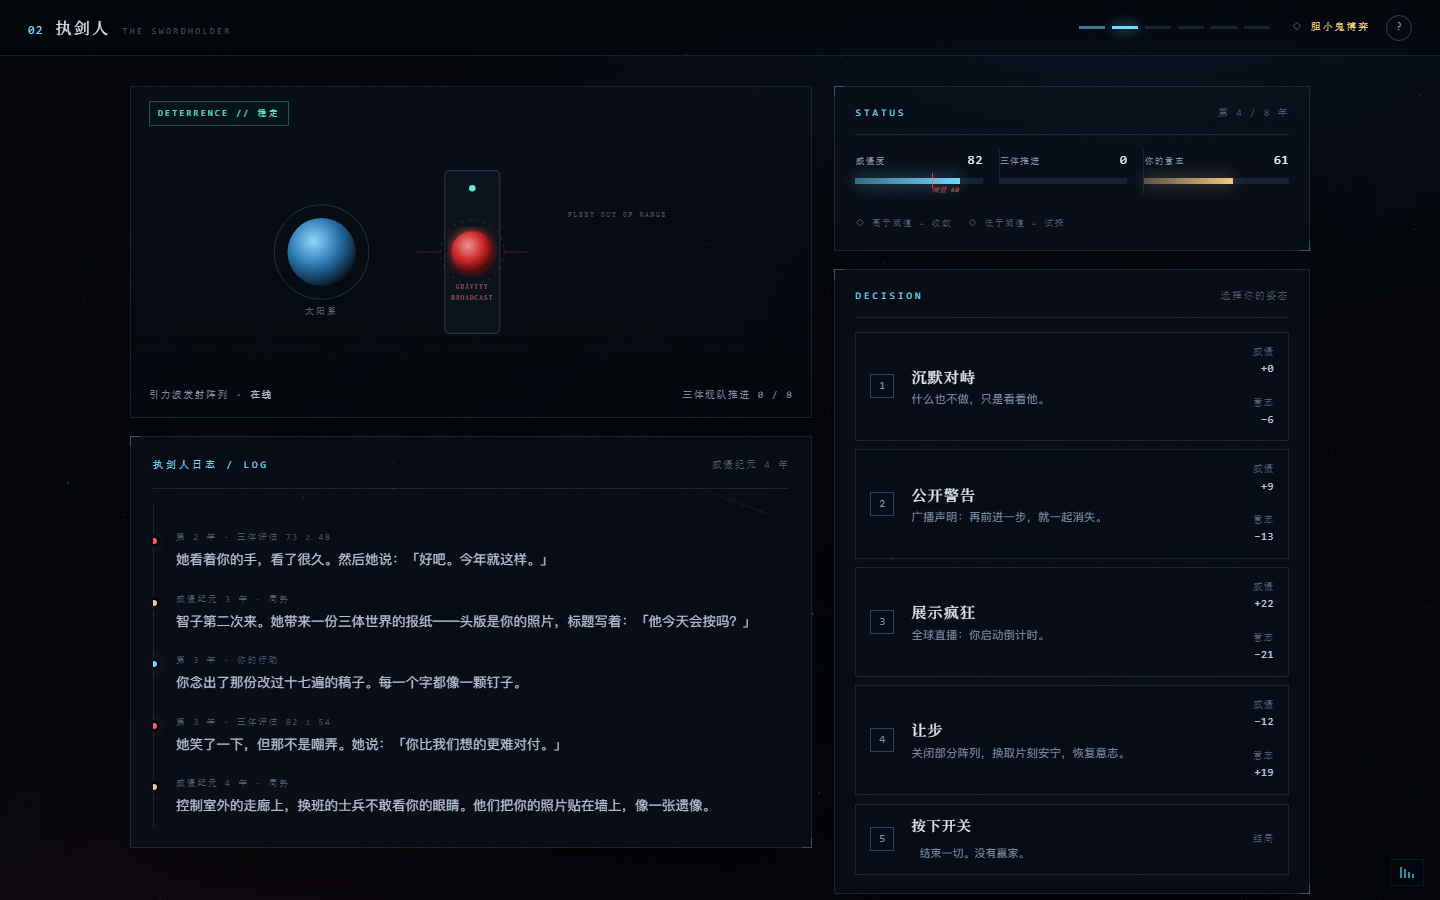
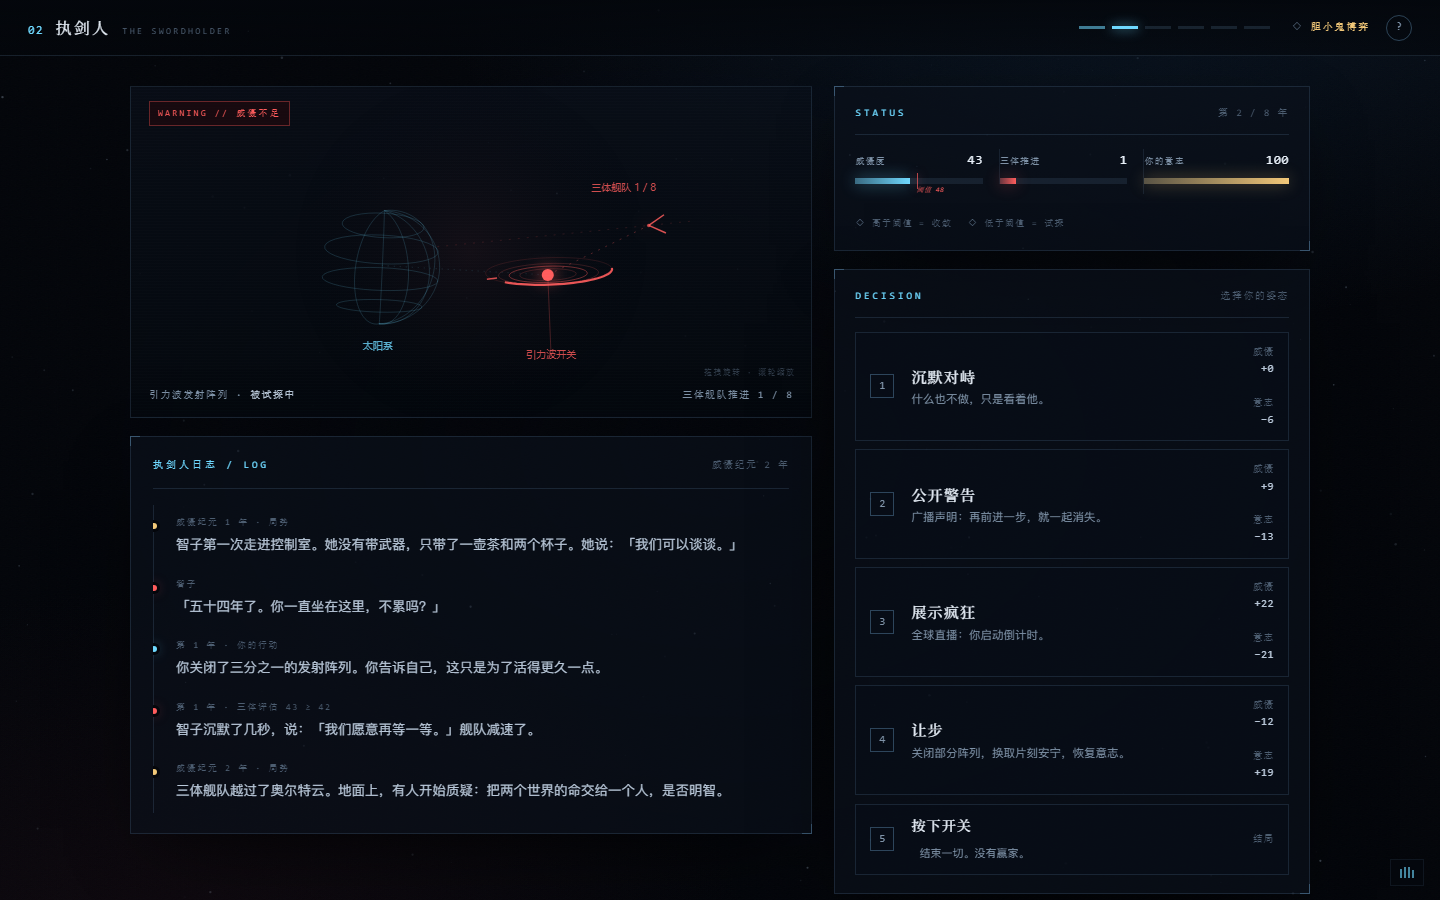
feat: 为第二章、第三章加入 3D 威慑台与信号球

diff --git a/dark-forest/js/hologram.js b/dark-forest/js/hologram.js
@@ -19,7 +19,9 @@ const Hologram = (() => {
   const defaultCam = {
     battle: { yaw: -0.55, pitch: 0.28, dist: 4.3 },
     plans: { yaw: 0.55, pitch: 0.34, dist: 4.1 },
-    mass: { yaw: 0.35, pitch: 0.40, dist: 4.7 }
+    mass: { yaw: 0.35, pitch: 0.40, dist: 4.7 },
+    deterrence: { yaw: -0.55, pitch: 0.26, dist: 4.4 },
+    signal: { yaw: -0.4, pitch: 0.30, dist: 4.2 }
   };
 
   function project(p, cam, W, H) {
@@ -84,6 +86,17 @@ const Hologram = (() => {
       ctx.restore();
     }
     return q;
+  }
+
+  function text3(ctx, p, cam, W, H, text, color, font, align) {
+    const q = project(p, cam, W, H);
+    if (!q) return;
+    ctx.save();
+    ctx.font = font || "10px 'Microsoft YaHei', sans-serif";
+    ctx.fillStyle = `rgba(${color},.8)`;
+    ctx.textAlign = align || "left";
+    ctx.fillText(text, q.x, q.y);
+    ctx.restore();
   }
 
   function bezier(a, b, bulge, steps) {
@@ -323,10 +336,192 @@ const Hologram = (() => {
     }
   }
 
+  /* ---------------- chapter 2: deterrence console ---------------- */
+  function deterrence(ctx, st, cam, W, H, t) {
+    const threshold = st.threshold || 42;
+    const stable = st.D >= threshold;
+    const tint = stable ? C.cyan : C.red;
+    const glow = ctx.createRadialGradient(W / 2, H / 2, 0, W / 2, H / 2, Math.min(W, H) * 0.55);
+    glow.addColorStop(0, `rgba(${tint},.055)`);
+    glow.addColorStop(1, "rgba(0,0,0,0)");
+    ctx.fillStyle = glow;
+    ctx.fillRect(0, 0, W, H);
+
+    const earth = [-0.9, -0.05, 0], er = 0.55;
+    const rings = [];
+    for (let lat = -45; lat <= 45; lat += 30) {
+      const la = (lat * Math.PI) / 180, pts = [];
+      for (let i = 0; i <= 36; i++) {
+        const lo = (i / 36) * TAU;
+        pts.push([earth[0] + Math.cos(la) * Math.cos(lo) * er, earth[1] + Math.sin(la) * er, earth[2] + Math.cos(la) * Math.sin(lo) * er]);
+      }
+      rings.push(pts);
+    }
+    for (let lon = 0; lon < 180; lon += 30) {
+      const lo = (lon * Math.PI) / 180, pts = [];
+      for (let i = 0; i <= 36; i++) {
+        const la = -Math.PI / 2 + (i / 36) * Math.PI;
+        pts.push([earth[0] + Math.cos(la) * Math.cos(lo) * er, earth[1] + Math.sin(la) * er, earth[2] + Math.cos(la) * Math.sin(lo) * er]);
+      }
+      rings.push(pts);
+    }
+    strokeRings(ctx, rings, cam, W, H, C.cyan, 0.16, 1);
+    text3(ctx, [earth[0], earth[1] - 0.78, earth[2]], cam, W, H, "太阳系", C.cyan, "10px 'Microsoft YaHei', sans-serif", "center");
+
+    const T = st.T || 0;
+    const fy = 0.08, startX = 1.5, step = 0.16;
+    ctx.setLineDash([2, 7]);
+    line(ctx, [1.8, fy, 0], [-0.35, fy, 0], cam, W, H, C.red, 0.14, 1);
+    ctx.setLineDash([]);
+    const ghost = T ? 0 : 3;
+    for (let i = 0; i < T + ghost; i++) {
+      const on = i < T;
+      const x = startX - i * step;
+      const a = [x, fy, 0], b = [x + 0.12, fy + 0.075, 0], c = [x + 0.12, fy - 0.075, 0];
+      line(ctx, a, b, cam, W, H, C.red, on ? 0.85 : 0.18, 1.5);
+      line(ctx, a, c, cam, W, H, C.red, on ? 0.85 : 0.18, 1.5);
+      node(ctx, a, cam, W, H, C.red, on ? 1.4 : 1, on ? 0.7 : 0.15);
+    }
+    if (!T) {
+      text3(ctx, [1.22, fy + 0.3, 0], cam, W, H, "FLEET OUT OF RANGE", C.red, "8px Consolas, monospace", "center");
+    } else {
+      const lead = startX - (T - 1) * step;
+      text3(ctx, [lead + 0.08, fy + 0.28, 0], cam, W, H, "三体舰队 " + T + " / 8", C.red, "10px 'Microsoft YaHei', sans-serif", "right");
+    }
+
+    const sw = [0.58, -0.15, 0.5];
+    line(ctx, [sw[0], -0.88, sw[2]], sw, cam, W, H, C.red, 0.25, 1);
+    ctx.setLineDash([1, 5]);
+    line(ctx, earth, sw, cam, W, H, C.cyan, 0.16, 1);
+    ctx.setLineDash([]);
+    for (const r of [0.26, 0.36, 0.46]) {
+      const pts = [];
+      for (let i = 0; i <= 40; i++) {
+        const a = (i / 40) * TAU;
+        pts.push([sw[0] + Math.cos(a) * r, sw[1], sw[2] + Math.sin(a) * r]);
+      }
+      strokeRings(ctx, [pts], cam, W, H, tint, r === 0.36 ? 0.4 : 0.18, 1);
+    }
+
+    const full = [], arc = [];
+    for (let i = 0; i <= 72; i++) {
+      const a = (i / 72) * TAU;
+      const p = [sw[0] + Math.cos(a) * 0.58, sw[1] + 0.02, sw[2] + Math.sin(a) * 0.58];
+      full.push(p);
+      if (i / 72 <= st.D / 100) arc.push(p);
+    }
+    strokeRings(ctx, [full], cam, W, H, tint, 0.12, 1);
+    if (arc.length > 1) strokeRings(ctx, [arc], cam, W, H, tint, 0.9, 2.2);
+    const ta = (threshold / 100) * TAU;
+    line(ctx, [sw[0] + Math.cos(ta) * 0.52, sw[1] + 0.02, sw[2] + Math.sin(ta) * 0.52],
+              [sw[0] + Math.cos(ta) * 0.63, sw[1] + 0.02, sw[2] + Math.sin(ta) * 0.63], cam, W, H, tint, 0.8, 1.5);
+
+    if (T) {
+      ctx.setLineDash([2, 6]);
+      line(ctx, sw, [startX - (T - 1) * step, fy, 0], cam, W, H, tint, 0.3, 1);
+      ctx.setLineDash([]);
+    }
+
+    if (st.phase === "confirm") {
+      const pulse = 0.55 + Math.sin(t * 5) * 0.2;
+      const pts = [];
+      for (let i = 0; i <= 48; i++) {
+        const a = (i / 48) * TAU;
+        pts.push([sw[0] + Math.cos(a) * 0.68, sw[1], sw[2] + Math.sin(a) * 0.68]);
+      }
+      strokeRings(ctx, [pts], cam, W, H, C.white, pulse, 2);
+    }
+
+    node(ctx, sw, cam, W, H, C.red, 7, 1);
+    text3(ctx, [sw[0], sw[1] - 0.76, sw[2]], cam, W, H, "引力波开关", C.red, "10px 'Microsoft YaHei', sans-serif", "center");
+  }
+
+  /* ---------------- chapter 3: signal sphere ---------------- */
+  function signalScene(ctx, st, cam, W, H, t) {
+    const post = st.post == null ? 0.5 : st.post;
+    const tint = post >= 0.5 ? C.cyan : C.red;
+    const glow = ctx.createRadialGradient(W / 2, H / 2, 0, W / 2, H / 2, Math.min(W, H) * 0.52);
+    glow.addColorStop(0, `rgba(${tint},.05)`);
+    glow.addColorStop(1, "rgba(0,0,0,0)");
+    ctx.fillStyle = glow;
+    ctx.fillRect(0, 0, W, H);
+
+    const rings = [];
+    for (let lat = -60; lat <= 60; lat += 30) {
+      const la = (lat * Math.PI) / 180, pts = [];
+      for (let i = 0; i <= 48; i++) {
+        const lo = (i / 48) * TAU;
+        pts.push([Math.cos(la) * Math.cos(lo), Math.sin(la), Math.cos(la) * Math.sin(lo)]);
+      }
+      rings.push(pts);
+    }
+    for (let lon = 0; lon < 180; lon += 30) {
+      const lo = (lon * Math.PI) / 180, pts = [];
+      for (let i = 0; i <= 48; i++) {
+        const la = -Math.PI / 2 + (i / 48) * Math.PI;
+        pts.push([Math.cos(la) * Math.cos(lo), Math.sin(la), Math.cos(la) * Math.sin(lo)]);
+      }
+      rings.push(pts);
+    }
+    strokeRings(ctx, rings, cam, W, H, C.cyan, 0.09, 1);
+
+    const scan = [];
+    for (let i = 0; i <= 72; i++) {
+      const a = (i / 72) * TAU + t * 0.35;
+      scan.push([Math.cos(a) * 1.12, Math.sin(a * 2 + t * 0.2) * 0.08, Math.sin(a) * 1.12]);
+    }
+    strokeRings(ctx, [scan], cam, W, H, C.cyan, 0.22, 1);
+
+    const srcPos = j => {
+      const az = -0.9 + j * 1.15;
+      const el = 0.42 - (j % 2) * 0.55;
+      return [Math.cos(el) * Math.cos(az) * 1.1, Math.sin(el) * 1.1, Math.cos(el) * Math.sin(az) * 1.1];
+    };
+    for (let j = 0; j < st.idx; j++) node(ctx, srcPos(j), cam, W, H, C.cyan, 1.6, 0.22);
+
+    const src = srcPos(st.idx);
+    const station = [0, -0.12, 0];
+    const beamColor = st.last ? (st.last.good ? C.cyan : C.red) : C.gold;
+    const { pts, mid } = bezier(src, station, 0.4, 28);
+    strokeRings(ctx, [pts], cam, W, H, beamColor, 0.55, 1.4);
+    const u = (t * 0.65) % 1;
+    node(ctx, pointOn(src, station, mid, u), cam, W, H, beamColor, 2, 0.9);
+    node(ctx, src, cam, W, H, beamColor, 4, 0.95, st.source || "信号源", beamColor);
+
+    node(ctx, station, cam, W, H, C.white, 3.2, 0.85, "监听站", C.white);
+
+    const R = 0.38, full = [], arc = [];
+    for (let i = 0; i <= 72; i++) {
+      const a = (i / 72) * TAU;
+      const p = [station[0] + Math.cos(a) * R, station[1] + 0.02, station[2] + Math.sin(a) * R];
+      full.push(p);
+      if (i / 72 <= post) arc.push(p);
+    }
+    strokeRings(ctx, [full], cam, W, H, C.white, 0.1, 1);
+    if (arc.length > 1) strokeRings(ctx, [arc], cam, W, H, tint, 0.9, 2.2);
+    line(ctx, [station[0] + Math.cos(Math.PI) * 0.34, station[1] + 0.02, station[2] + Math.sin(Math.PI) * 0.34],
+              [station[0] + Math.cos(Math.PI) * 0.42, station[1] + 0.02, station[2] + Math.sin(Math.PI) * 0.42],
+              cam, W, H, C.white, 0.45, 1);
+
+    text3(ctx, [station[0] + 0.62, station[1] - 0.5, station[2]], cam, W, H,
+      "P(善意) " + Math.round(post * 100) + "%", tint, "9px Consolas, monospace", "center");
+
+    if (st.title) {
+      ctx.save();
+      ctx.font = "600 18px 'Noto Serif SC', 'Songti SC', serif";
+      ctx.fillStyle = `rgba(${C.white},.85)`;
+      ctx.textAlign = "center";
+      ctx.fillText(st.title, W / 2, 42);
+      ctx.restore();
+    }
+  }
+
   function draw(kind, st, ctx, W, H, cam, t) {
     if (kind === "battle") battle(ctx, st, cam, W, H, t);
     else if (kind === "plans") plans(ctx, st, cam, W, H, t);
     else if (kind === "mass") mass(ctx, st, cam, W, H, t);
+    else if (kind === "deterrence") deterrence(ctx, st, cam, W, H, t);
+    else if (kind === "signal") signalScene(ctx, st, cam, W, H, t);
   }
 
   function mount(canvas) {

diff --git a/dark-forest/js/chapters.js b/dark-forest/js/chapters.js
@@ -470,7 +470,15 @@ const C2 = {
 
   threshold() { return 42 + (this.st.turn - 1) * 6; },
 
-  draw() { App.set(this.html()); },
+  draw() {
+    if (typeof Hologram !== "undefined") {
+      Hologram.setState("deterrence", {
+        turn: this.st.turn, T: this.st.T, D: this.st.D, S: this.st.S,
+        threshold: this.threshold(), last: this.st.last, phase: this.st.phase
+      });
+    }
+    App.set(this.html());
+  },
 
   html() {
     if (this.phase === "brief") {
@@ -541,48 +549,11 @@ const C2 = {
 
   scene(th) {
     const st = this.st;
-    const fleet = Array.from({ length: 8 }, (_, i) => {
-      if (i >= st.T) return "";
-      const x = 372 - i * 14;
-      return `<g>
-        <path d="M${x} 118 l-9 16 l18 0 z" fill="#ff5d5d"/>
-        <path d="M${x} 118 l-9 16 l18 0 z" fill="none" stroke="rgba(255,93,93,.6)" stroke-width="3"/>
-      </g>`;
-    }).join("");
-
     return `
-    <div class="scene">
+    <div class="scene scene--3d">
       <span class="scene-tag ${st.D >= th ? "is-calm" : ""}">${st.D >= th ? "DETERRENCE // 稳定" : "WARNING // 威慑不足"}</span>
-      <svg viewBox="0 0 400 300" role="img" aria-label="威慑控制室">
-        <defs>
-          <radialGradient id="earth2" cx="38%" cy="34%" r="70%">
-            <stop offset="0%" stop-color="#8fd6ff"/><stop offset="55%" stop-color="#2570a8"/><stop offset="100%" stop-color="#07131f"/>
-          </radialGradient>
-          <radialGradient id="btn2" cx="40%" cy="35%" r="65%">
-            <stop offset="0%" stop-color="#ff9b9b"/><stop offset="55%" stop-color="#d92b2b"/><stop offset="100%" stop-color="#4a0808"/>
-          </radialGradient>
-          <filter id="glow2"><feGaussianBlur stdDeviation="6" result="b"/><feMerge><feMergeNode in="b"/><feMergeNode in="SourceGraphic"/></feMerge></filter>
-        </defs>
-
-        <circle cx="64" cy="150" r="31" fill="url(#earth2)"/>
-        <circle cx="64" cy="150" r="43" fill="none" stroke="rgba(111,217,255,.22)" stroke-width=".8"/>
-        <text x="64" y="206" text-anchor="middle" font-family="monospace" font-size="8" letter-spacing="2" fill="rgba(125,145,165,.7)">太阳系</text>
-
-        <g opacity=".9">${fleet}</g>
-        <line x1="378" y1="126" x2="244" y2="126" stroke="rgba(255,93,93,.18)" stroke-width=".7" stroke-dasharray="1 6"/>
-        ${st.T === 0 ? `<text x="378" y="118" text-anchor="end" font-family="monospace" font-size="7" letter-spacing="1.5" fill="rgba(125,145,165,.5)">FLEET OUT OF RANGE</text>` : ""}
-
-        <g>
-          <rect x="176" y="76" width="50" height="148" rx="4" fill="rgba(12,20,30,.85)" stroke="rgba(126,170,210,.25)"/>
-          <circle cx="201" cy="92" r="3" fill="${st.D >= th ? "#5eead4" : "#ff5d5d"}"/>
-          <circle cx="201" cy="150" r="19" fill="url(#btn2)" filter="url(#glow2)" class="bigbtn"/>
-          <circle cx="201" cy="150" r="29" fill="none" stroke="rgba(255,93,93,.35)" stroke-width=".8" stroke-dasharray="2 5"/>
-          <text x="201" y="184" text-anchor="middle" font-family="monospace" font-size="6.5" letter-spacing="1" fill="rgba(255,140,140,.75)">GRAVITY</text>
-          <text x="201" y="194" text-anchor="middle" font-family="monospace" font-size="6.5" letter-spacing="1" fill="rgba(255,140,140,.75)">BROADCAST</text>
-          <path d="M150 150 h22" stroke="rgba(255,93,93,.3)" stroke-width=".8"/>
-          <path d="M230 150 h22" stroke="rgba(255,93,93,.3)" stroke-width=".8"/>
-        </g>
-      </svg>
+      <canvas data-holo="deterrence" tabindex="0" aria-label="三维威慑控制台，可拖拽旋转，滚轮缩放"></canvas>
+      <span class="holo-hint">拖拽旋转 · 滚轮缩放</span>
       <div class="scene-caption">
         <span>引力波发射阵列 · <b>${st.D >= th ? "在线" : "被试探中"}</b></span>
         <span>三体舰队推进 ${st.T} / 8</span>
@@ -982,7 +953,28 @@ const C3 = {
     this.draw();
   },
 
-  draw() { App.set(this.html()); },
+  draw() {
+    if (typeof Hologram !== "undefined") {
+      Hologram.setState("signal", {
+        idx: this.st.idx, post: this.st.post, last: this.st.last,
+        title: this.st.obs.length ? this.obsTitle() : "",
+        source: this.enc().name
+      });
+    }
+    App.set(this.html());
+  },
+
+  scene3D() {
+    const st = this.st, e = this.enc();
+    const good = Math.round(st.post * 100);
+    return `
+    <div class="scene scene--3d">
+      <span class="scene-tag ${good >= 50 ? "is-calm" : ""}"><span>SIGNAL ${String(st.idx + 1).padStart(2, "0")}</span><span class="tag-region"> // ${e.region}</span></span>
+      <canvas data-holo="signal" tabindex="0" aria-label="三维信号球，可拖拽旋转，滚轮缩放"></canvas>
+      <span class="holo-hint">拖拽旋转 · 滚轮缩放</span>
+      <div class="scene-caption"><span>监听站 · <b>被动接收</b></span><span>暴露度 ${st.exposure} / 100</span></div>
+    </div>`;
+  },
 
   enc() { return C3_ENCOUNTERS[this.st.idx]; },
 
@@ -1033,17 +1025,7 @@ const C3 = {
       ${UI.hud(2, "贝叶斯信号")}
       <div class="stage">
         <section class="stage-main">
-          <div class="scene">
-            <span class="scene-tag ${good >= 50 ? "is-calm" : ""}">SIGNAL ${String(st.idx + 1).padStart(2, "0")} // ${e.region}</span>
-            <div style="width:100%;padding:26px 0 10px">
-              ${UI.sceneWave({ strength: 0.35 + good / 200 })}
-              <div style="text-align:center;margin-top:6px">
-                <div class="mono" style="font-size:9px;letter-spacing:.3em;color:var(--faint)">${e.name} · 信号解析</div>
-                <div class="serif" style="font-size:22px;letter-spacing:.12em;margin-top:8px">${this.obsTitle()}</div>
-              </div>
-            </div>
-            <div class="scene-caption"><span>监听站 · <b>被动接收</b></span><span>暴露度 ${st.exposure} / 100</span></div>
-          </div>
+          ${this.scene3D()}
 
           <div class="panel">
             <div class="panel-head">

diff --git a/dark-forest/css/style.css b/dark-forest/css/style.css
@@ -275,6 +275,7 @@ body::before{
   .scene--3d{min-height:292px}
   .scene--3d canvas{height:292px}
   .holo-hint{font-size:7px;right:12px;bottom:36px}
+  .tag-region{display:none}
 }
 
 /* radar */

diff --git a/dark-forest/README.md b/dark-forest/README.md
@@ -24,7 +24,7 @@
 
 每一章也都在讲故事：第 1 章有深海状态、次声波氢弹和逐轮变化的战报；第 2 章有八年的局势事件与智子的动态回应；第 3 章每次接触都有独立文本，中途还会传来一颗恒星被光粒摧毁的新闻；第 4 章有三位面壁者的相继倒下；第 5 章有六段来自宇宙各地的广播。
 
-**第 1、4、5 章的星图是可操作的 3D 全息场景。** 拖动旋转，滚轮缩放，双击复位，键盘方向键也能转。它们不是预渲染视频，而是 Canvas 实时绘制的线框：战术球体、计划金字塔、质量环。
+**五个章节的星图都是可操作的 3D 全息场景。** 拖动旋转，滚轮缩放，双击复位，键盘方向键也能转。它们不是预渲染视频，而是 Canvas 实时绘制的线框：第 1 章战术球体、第 2 章威慑控制台、第 3 章信号球、第 4 章计划金字塔、第 5 章质量环。
 
 完整的模型、数值与设计取舍见 [设计文档.md](设计文档.md)。
 

diff --git a/README.md b/README.md
@@ -4,7 +4,7 @@
 
 ## 黑暗森林 · 五个博弈
 
-> 一款以《三体》为背景的博弈论互动叙事游戏。五个章节，五场选择；三章可拖拽的 3D 星图。
+> 一款以《三体》为背景的博弈论互动叙事游戏。五个章节，五场选择；五章可拖拽的 3D 星图。
 > 读过原著，会看见另一层；没读过，也能玩懂。
 
 **[开始游戏 →](https://youshuo16.github.io/Games/dark-forest/)** · [项目说明](dark-forest/README.md) · [设计文档](dark-forest/设计文档.md)
